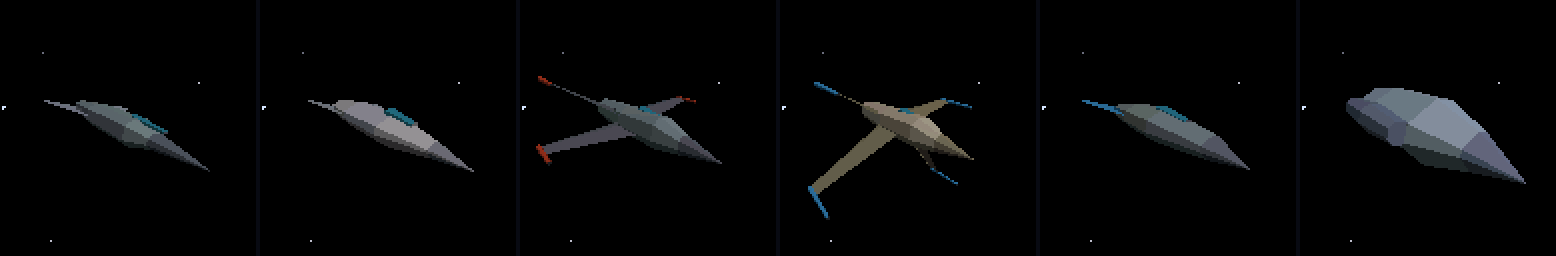
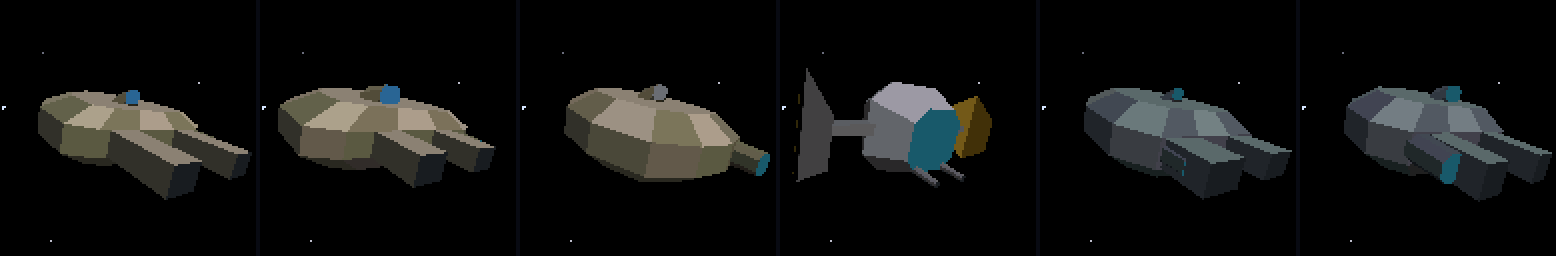
Disc freighters rebuilt + visible guns on every archetype (user reqs)
DISC CLASS RETHINK (the falcon-types were tube-clones with bad joins):
hulls are now built in the TOP-VIEW plane — a convex elliptical
outline with a flattened bow, extruded into a lens (top plate / rim
band / bottom plate). Mandibles are rectangular slabs off the flat bow
at exactly rim height (flush by construction — no more misaligned
cylinders); the cockpit tube embeds INTO the disc so its join is
buried, emerging at the left or right rim with a glass face. Engine
glow strip across the stern rim arc. Variety: disc aspect, mandible
length (20% are pure discs)/gap/width, dome presence + offset,
cockpit side.

VISIBLE ARMAMENT across the fleet: darts get a chin gun, fighters twin
chin barrels, gunships a top cannon over their prongs, cruisers
flank + dorsal sponson pairs, haulers a defensive top turret nub,
panel-pods twin chin guns, discs gun the mandible notch (pure discs
carry a belly pair). X-foil tip cannons unchanged.

Dreadnought weights: the 20% saucer slice (diluted the warship class)
swapped to heavy loft-gunships. Guide galleries regenerated with the
armed ships; debug hint 99 (force-disc) kept for variety audits.

diff --git a/docs/index.html b/docs/index.html
@@ -662,7 +662,8 @@ procedurally built.</figcaption></figure>
 <figcaption><b>Heavy ships.</b> Dreadnoughts, heavy haulers and
 freighters — slab hulls, mandible saucers, dorsal-finned warships.</figcaption></figure>
 <figure class="wide"><img src="img/ships_exotic.png" alt="Couriers and raiders">
-<figcaption><b>Couriers, raiders and starters.</b> Slim speed-frames and
+<figcaption><b>Disc freighters, couriers, raiders and starters.</b>
+Lens-hulled freighters with bow mandibles, slim speed-frames and
 panel-pod raiders. Pirate wings share a local style per system — you
 can tell where a wing was built by its silhouette.</figcaption></figure>
 

diff --git a/game/ship_gen.c b/game/ship_gen.c
@@ -171,6 +171,26 @@ static void nacelle(float x, float y, float z0, float z1, float r,
     }
 }
 
+/* Axis-aligned slab (disc mandibles): front face dark muzzle-ish,
+ * everything else hull colours. */
+static void slab(float cx, float cy, float cz, float hx, float hy,
+                 float hz, uint16_t top, uint16_t side, uint16_t front) {
+    int v000 = vtx(cx - hx, cy - hy, cz - hz);
+    int v100 = vtx(cx + hx, cy - hy, cz - hz);
+    int v010 = vtx(cx - hx, cy + hy, cz - hz);
+    int v110 = vtx(cx + hx, cy + hy, cz - hz);
+    int v001 = vtx(cx - hx, cy - hy, cz + hz);
+    int v101 = vtx(cx + hx, cy - hy, cz + hz);
+    int v011 = vtx(cx - hx, cy + hy, cz + hz);
+    int v111 = vtx(cx + hx, cy + hy, cz + hz);
+    quad(v001, v101, v111, v011, front);   /* +z bow */
+    quad(v100, v000, v010, v110, side);    /* -z stern */
+    quad(v101, v100, v110, v111, side);    /* +x */
+    quad(v000, v001, v011, v010, side);    /* -x */
+    quad(v011, v111, v110, v010, top);     /* +y */
+    quad(v000, v100, v101, v001, top);     /* -y */
+}
+
 /* Slim forward gun barrel (X-wing wingtips, prongs). */
 static void tip_gun(float x, float y, float z, float len, float r,
                     uint16_t col, uint16_t dark) {
@@ -181,6 +201,13 @@ static void tip_gun(float x, float y, float z, float len, float r,
     skin(g0, g1, col, col, col);
     cap_back(g0, col);
     cap_front(g1, dark);
+}
+
+/* Mirrored pair of forward gun barrels. */
+static void gun_pair(float x, float y, float z, float blen, float br,
+                     uint16_t col, uint16_t muz) {
+    tip_gun(x, y, z, blen, br, col, muz);
+    tip_gun(-x, y, z, blen, br, col, muz);
 }
 
 /* class-hint state (set by ship_gen_mesh_class; -1 = free roll) */
@@ -268,9 +295,12 @@ const Mesh *ship_gen_mesh(uint32_t seed) {
             arch = (r2 < 60) ? 0 : 3;
             family = 5;
             break;
+        case 99:  /* debug: force saucer (variety audits) */
+            arch = 3; family = 5;
+            break;
         default:  /* dreadnought: long warships of all schools */
-            arch = (r2 < 55) ? 0 : (r2 < 80) ? 1 : 3;
-            family = (r2 < 55) ? 4 : 3;
+            arch = (r2 < 55) ? 0 : (r2 < 80) ? 1 : 0;
+            family = (r2 < 55) ? 4 : 3;     /* cruiser / foil / gunship */
             break;
         }
     }
@@ -425,6 +455,10 @@ const Mesh *ship_gen_mesh(uint32_t seed) {
                 quad(p1, q1, q0, p0, HULL2);
             }
         }
+        /* Chin guns under the cockpit ball. */
+        gun_pair(r * 0.35f, -r * 0.55f, r * 0.5f, r * rndf(0.5f, 0.9f),
+                 r * 0.08f, HULL2, RGB565C(40, 40, 48));
+
         /* Panels: COMPACT, fore-aft SYMMETRIC shapes only. */
         {
             int style = rndi(0, 3);
@@ -490,36 +524,103 @@ const Mesh *ship_gen_mesh(uint32_t seed) {
         goto finish;
     }
     if (arch == 3) {
-        /* --- SAUCER: wide flat hull + mandibles + offset cockpit ------ */
-        float zb2 = -len * 0.5f, zf2 = len * 0.30f;
-        float w = len * rndf(0.34f, 0.46f);
-        float h = w * rndf(0.18f, 0.28f);
-        int a[8], b[8], c[8];
-        ring(zb2, w * 0.55f, h * 0.7f, 0, 0.55f, a);
-        ring(zb2 + len * 0.45f, w, h, 0, 0.6f, b);
-        ring(zf2, w * 0.6f, h * 0.8f, 0, 0.55f, c);
-        skin(a, b, HULL, HULL, HULL2);
-        skin(b, c, HULL, HULL, HULL2);
-        cap_back(a, GLOW);
-        cap_front(c, HULL2);
-        /* twin mandibles forward */
-        float mx = w * rndf(0.3f, 0.45f);
-        tip_gun(mx, 0, zf2 - len * 0.02f, len * rndf(0.2f, 0.3f),
-                w * 0.09f, HULL2, RGB565C(40, 40, 48));
-        tip_gun(-mx, 0, zf2 - len * 0.02f, len * rndf(0.2f, 0.3f),
-                w * 0.09f, HULL2, RGB565C(40, 40, 48));
-        /* offset cockpit tube */
+        /* --- DISC FREIGHTER (Falcon-inspired rethink) -----------------
+         * Built in the TOP-VIEW plane: a convex elliptical outline with
+         * a flattened front edge, extruded into a lens (thin top plate,
+         * vertical rim band, thin bottom plate). Mandibles are slabs
+         * off the flat front edge, flush with the rim by construction.
+         * Cockpit tube embeds INTO the disc so the join is buried. */
+        float az = len * 0.5f;                       /* half-length */
+        float ax = az * rndf(0.7f, 1.05f);           /* half-width */
+        float ry = len * rndf(0.045f, 0.07f);        /* rim half-height */
+        float py = ry * rndf(1.9f, 2.6f);            /* lens half-height */
+        float ml = (rndi(0, 99) < 80) ? len * rndf(0.18f, 0.42f) : 0.0f;
+        float front_k = ml > 0 ? rndf(0.35f, 0.55f) : 0.85f;
+        float frontz = az * front_k;                 /* flat front edge */
+
+        int N = 12;
+        float ox[12], oz[12];
+        for (int i2 = 0; i2 < N; i2++) {
+            float th = (float)i2 * (6.2831853f / (float)N) + 0.2618f;
+            ox[i2] = ax * sinf(th);
+            oz[i2] = az * cosf(th);
+            if (oz[i2] > frontz) oz[i2] = frontz;    /* flatten the bow */
+        }
+        int rimT[12], rimB[12], capT[12], capB[12];
+        for (int i2 = 0; i2 < N; i2++) {
+            rimT[i2] = vtx(ox[i2], ry, oz[i2]);
+            rimB[i2] = vtx(ox[i2], -ry, oz[i2]);
+            capT[i2] = vtx(ox[i2] * 0.70f, py, oz[i2] * 0.70f);
+            capB[i2] = vtx(ox[i2] * 0.70f, -py, oz[i2] * 0.70f);
+        }
+        for (int i2 = 0; i2 < N; i2++) {
+            int j2 = (i2 + 1) % N;
+            /* Rim band — stern arc glows (drive slit). */
+            uint16_t rc = (oz[i2] < -az * 0.62f && oz[j2] < -az * 0.62f)
+                              ? GLOW : HULL2;
+            quad(rimB[i2], rimB[j2], rimT[j2], rimT[i2], rc);
+            /* Plate slopes. */
+            quad(rimT[i2], rimT[j2], capT[j2], capT[i2],
+                 (i2 & 1) ? HULL : HULL2);
+            quad(rimB[j2], rimB[i2], capB[i2], capB[j2], HULL);
+        }
+        for (int i2 = 1; i2 < N - 1; i2++) {         /* lens caps */
+            face(capT[0], capT[i2], capT[i2 + 1], HULL);
+            face(capB[0], capB[i2 + 1], capB[i2], HULL2);
+        }
+
+        /* Mandibles: rectangular slabs off the flat bow, rim-flush. */
+        if (ml > 0) {
+            float gap = ax * rndf(0.14f, 0.3f);
+            float pw = ax * rndf(0.13f, 0.22f);
+            for (int sd2 = 0; sd2 < 2; sd2++) {
+                float sx2 = sd2 ? -1.0f : 1.0f;
+                slab(sx2 * (gap + pw), 0, frontz + ml * 0.5f,
+                     pw, ry * 0.95f, ml * 0.5f,
+                     HULL, HULL2, RGB565C(40, 40, 48));
+            }
+        }
+
+        /* Cockpit: embedded tube emerging at one rim edge. */
         {
-            float cx2 = w * rndf(0.45f, 0.7f);
+            float side = (rnd() & 1) ? 1.0f : -1.0f;
+            float cx2 = side * ax * rndf(0.5f, 0.68f);
+            float tip = frontz + (ml > 0 ? ml * rndf(0.3f, 0.7f)
+                                         : az * 0.18f);
             int e[8], f2[8];
-            ring(zb2 + len * 0.5f, w * 0.12f, w * 0.10f, h * 0.8f, 0.5f, e);
-            ring(zf2 + len * 0.05f, w * 0.09f, w * 0.07f, h * 0.6f, 0.5f, f2);
+            ring(-az * 0.1f, ry * 1.15f, ry * 1.05f, 0, 0.5f, e);
+            ring(tip, ry * 0.85f, ry * 0.8f, 0, 0.5f, f2);
             for (int k = 0; k < 8; k++) {
                 s_fx[e[k]] += cx2; s_fx[f2[k]] += cx2;
             }
             skin(e, f2, HULL2, HULL2, HULL2);
-            cap_back(e, HULL2);
             cap_front(f2, GLASS);
+        }
+
+        /* Chin gun(s) under the bow — mandible ships gun the notch,
+         * pure discs carry a belly turret. */
+        if (ml > 0) {
+            tip_gun(0, -ry * 0.4f, frontz, ml * rndf(0.35f, 0.6f),
+                    ry * 0.5f, HULL2, RGB565C(40, 40, 48));
+        } else {
+            gun_pair(ax * 0.25f, -py * 0.8f, az * 0.4f,
+                     az * rndf(0.15f, 0.25f), ry * 0.45f, HULL2,
+                     RGB565C(40, 40, 48));
+        }
+
+        /* Top dome (sensor bump), often present, sometimes offset. */
+        if (rndi(0, 2)) {
+            float dr = ax * rndf(0.14f, 0.24f);
+            float dx2 = (rndi(0, 2) == 0) ? rndf(-0.3f, 0.3f) * ax : 0.0f;
+            int d0[8], d1[8];
+            ring(-az * 0.05f, dr, dr * 0.8f, py * 0.85f, 0.55f, d0);
+            ring(-az * 0.05f + dr * 0.8f, dr * 0.55f, dr * 0.45f,
+                 py * 0.85f + ry, 0.55f, d1);
+            for (int k = 0; k < 8; k++) {
+                s_fx[d0[k]] += dx2; s_fx[d1[k]] += dx2;
+            }
+            skin(d0, d1, HULL2, HULL2, HULL2);
+            cap_front(d1, (rnd() & 1) ? GLASS : ACC);
         }
         goto finish;
     }
@@ -655,6 +756,38 @@ const Mesh *ship_gen_mesh(uint32_t seed) {
         nacelle(w_mid * 1.15f, 0, z0 + len * 0.1f, z2,
                 w_mid * rndf(0.35f, 0.5f), HULL2, GLOW, 1);
         break;
+    }
+
+    /* Visible armament (user req: ships should show their guns). */
+    {
+        uint16_t MUZ = RGB565C(40, 40, 48);
+        float gl2 = len * rndf(0.10f, 0.18f);
+        switch (family) {
+        case 0:   /* dart: single chin gun */
+            tip_gun(0, -h3 * 0.8f, z3, gl2 * 1.3f, w_mid * 0.07f,
+                    HULL2, MUZ);
+            break;
+        case 1:
+        case 2:   /* fighters: twin chin barrels under the nose */
+            gun_pair(w3 * rndf(0.4f, 0.7f), -h3 * 0.7f, z3,
+                     gl2 * rndf(1.0f, 1.6f), w_mid * 0.06f, HULL2, MUZ);
+            break;
+        case 3:   /* gunship: prongs already; add a top barrel */
+            tip_gun(0, h2 * 0.9f, z2, gl2, w_mid * 0.07f, ACC, MUZ);
+            break;
+        case 4:   /* cruiser: sponson barrels along both flanks */
+            gun_pair(w_mid * 1.0f, 0, z2 + len * 0.05f,
+                     gl2 * 1.2f, w_mid * 0.06f, HULL2, MUZ);
+            gun_pair(w_mid * 0.9f, h2 * 0.5f, z1 + len * 0.08f,
+                     gl2, w_mid * 0.05f, HULL2, MUZ);
+            break;
+        default:  /* hauler: one defensive top turret nub */
+            slab(0, h2 * 0.95f, z2, w_mid * 0.16f, h2 * 0.22f,
+                 w_mid * 0.16f, HULL2, HULL2, HULL2);
+            tip_gun(0, h2 * 1.05f, z2 + w_mid * 0.1f, gl2,
+                    w_mid * 0.05f, HULL2, MUZ);
+            break;
+        }
     }
 
     /* Engine nacelles for fighters/interceptors/cruisers (50%). */